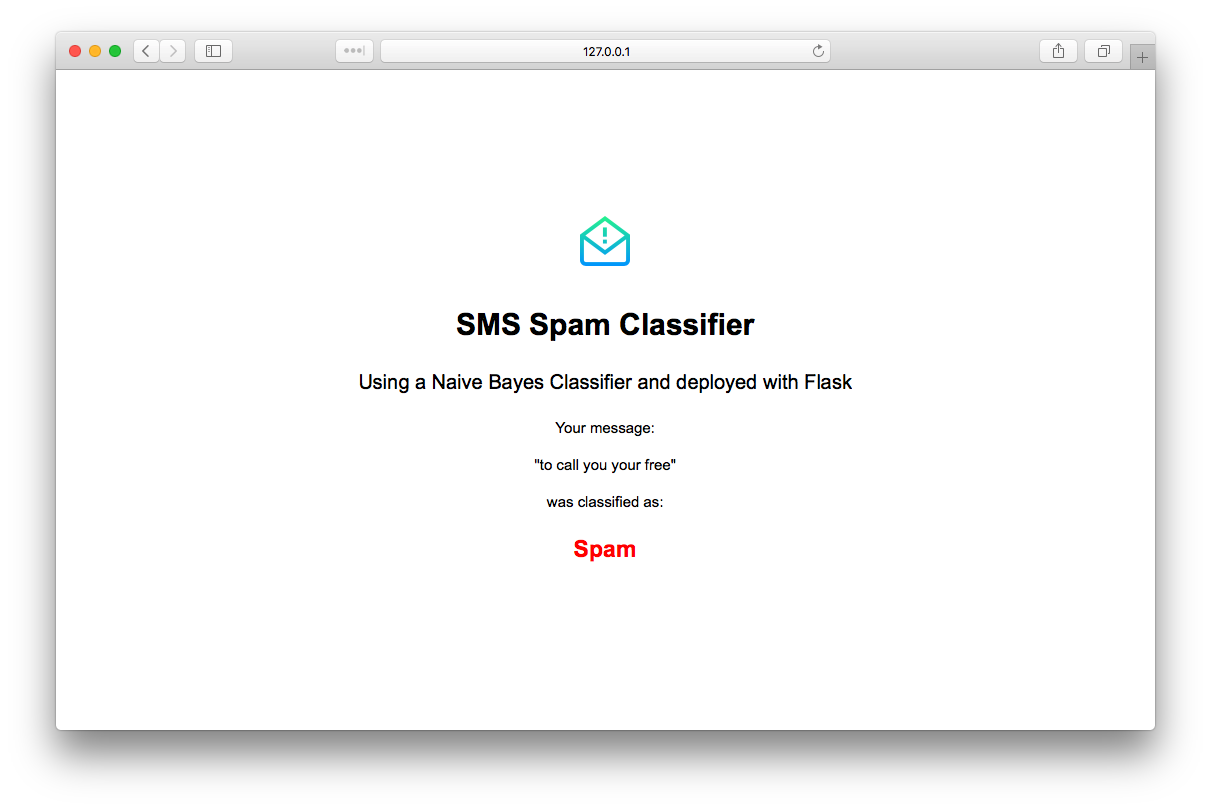
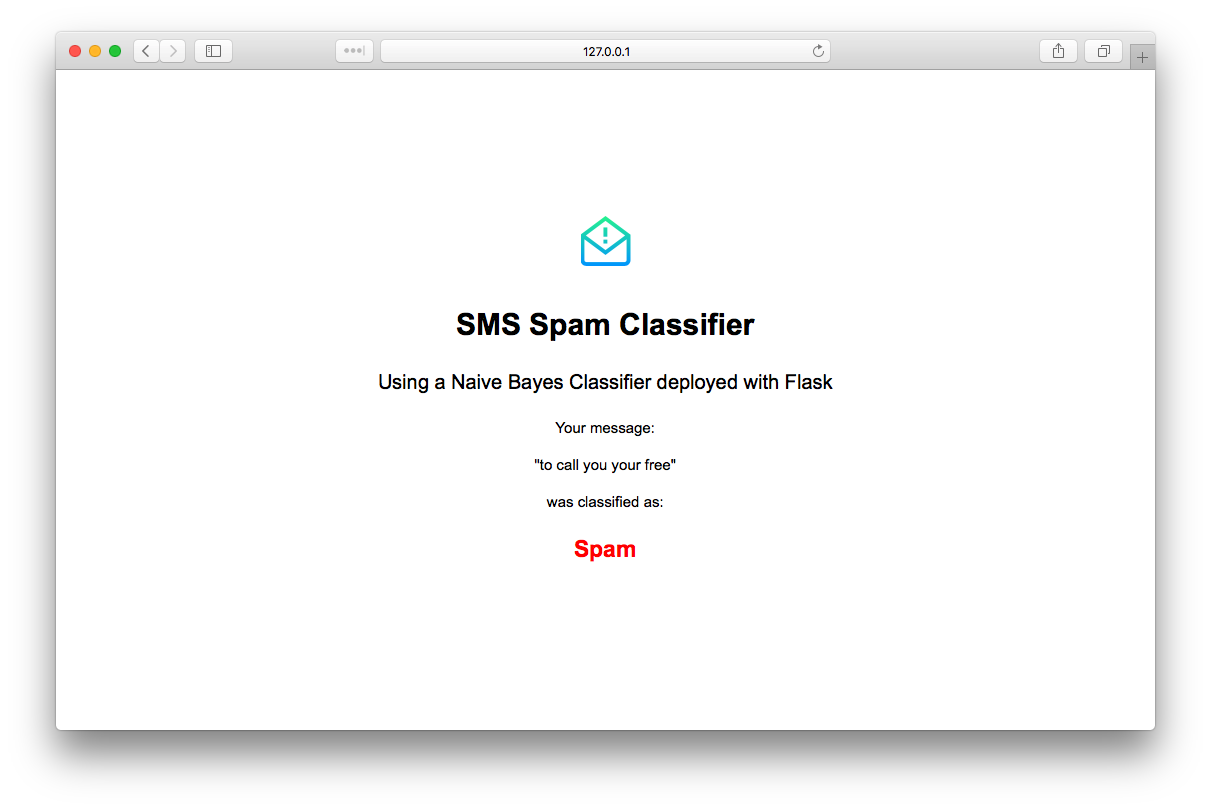
Fix copy

Changed region(s): [[0.3055, 0.463, 0.7027, 0.4938], [0.4889, 0.2778, 0.5194, 0.3086]]

diff --git a/SMS-Spam-Naive-Bayes-Flask/templates/home.html b/SMS-Spam-Naive-Bayes-Flask/templates/home.html
@@ -15,7 +15,7 @@
     <header>
       <div class="container">
 	<h1>SMS Spam Classifier</h1>
-	<div id="brandname"> Using a Naive Bayes Classifier and deployed with Flask
+	<div id="brandname"> Using a Naive Bayes Classifier deployed with Flask
 	</div>
       </div>
     </header>

diff --git a/SMS-Spam-Naive-Bayes-Flask/templates/result.html b/SMS-Spam-Naive-Bayes-Flask/templates/result.html
@@ -12,7 +12,7 @@
     <header>
       <div class="container">
 	<h1>SMS Spam Classifier</h1>
-	<div id="brandname"> Using a Naive Bayes Classifier and deployed with Flask
+	<div id="brandname"> Using a Naive Bayes Classifier deployed with Flask
 	</div>
       </div>
     </header>
